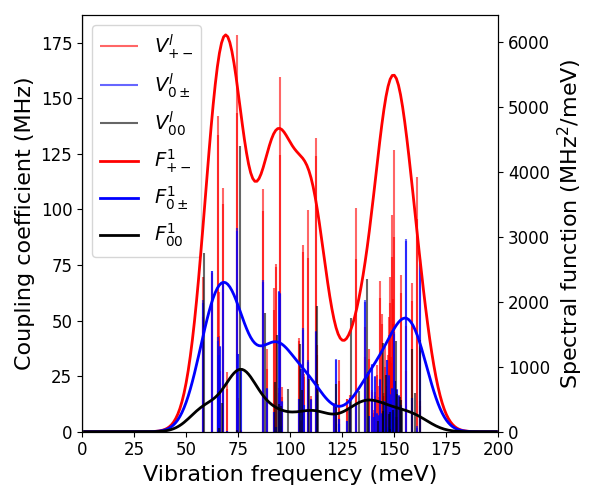
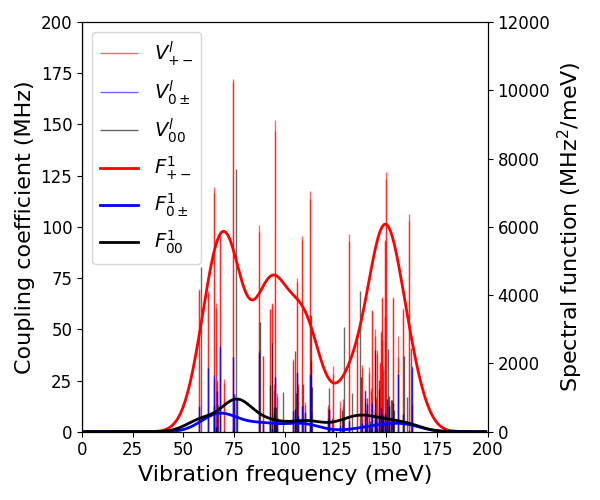
Remade plots and T1 calculation

diff --git a/src/beyblade/plotter.py b/src/beyblade/plotter.py
@@ -52,9 +52,9 @@ class ZFSPlotter:
                 Path("figures").mkdir(exist_ok=True)
                 fig.savefig(f"figures/{out_file}")
                 print(f"Saved figure in figures/{out_file}")
-                if data.get("second_order"):
-                    fig_2d.savefig(f"figures/{out_file.replace('.png', '_heatmap.png')}")
-                    print(f"Saved heatmap in figures/{out_file.replace('.png', '_heatmap.png')}")
+                # if data.get("second_order"):
+                #     fig_2d.savefig(f"figures/{out_file.replace('.png', '_heatmap.png')}")
+                #     print(f"Saved heatmap in figures/{out_file.replace('.png', '_heatmap.png')}")
 
     def _process_1d_plots(self, zfs_data, args):
         fig, ax = plt.subplots(figsize=(6, 5))
@@ -134,8 +134,8 @@ class ZFSPlotter:
             ax.set_ylabel("Phonon IPR")
         else:
             ax.set_ylabel("Coupling coefficient (MHz)")
-            #ax2.yaxis.set_major_locator(ticker.MultipleLocator(50))
-            ax.set_ylim(0)
+            ax.yaxis.set_major_locator(ticker.MultipleLocator(25))
+            ax.set_ylim(0, 125)
 
         if args.bar:
             ax.set_xlabel("Mode index")
@@ -145,9 +145,9 @@ class ZFSPlotter:
             ax.set_xlim(0, 200)
             ax.set_xlabel("Vibration frequency (meV)")
             ax2.set_ylabel(r"Spectral function (MHz$^2$/meV)")
-            #ax2.yaxis.set_major_locator(ticker.MultipleLocator(2000))
-            ax2.set_ylim(0)
-            legend_pos = "upper left"
+            ax2.yaxis.set_major_locator(ticker.MultipleLocator(500))
+            ax2.set_ylim(0, 3000)
+            legend_pos = "upper right"
 
         plt.axvline(x=data["zfs"]/CONSTANTS["meV2J"], color="gray", linewidth=1)
         lines1, labels1 = ax.get_legend_handles_labels()

diff --git a/scripts/plot_t1.py b/scripts/plot_t1.py
@@ -14,7 +14,14 @@ plt.rcParams.update({
 file_path = sys.argv[1:]
 show_plot = False
 
-initial_population = np.array([0.0, 1.0, 0.0])
+ms_states = {
+    "ms_1": [1.0, 0.0, 0.0],
+    "ms_0": [0.0, 1.0, 0.0],
+    "ms_-1": [0.0, 0.0, 1.0]
+    }
+
+init_state = "ms_-1"
+
 plt.figure(figsize=(10, 6))
 
 if file_path[0] == "--plot":
@@ -24,7 +31,7 @@ if file_path[0] == "--plot":
 for file in file_path:
 
   print("processing file: ", file)
-  simulator = RelaxationDynamics(init_state=initial_population, rates_data=file)
+  simulator = RelaxationDynamics(init_state=ms_states[init_state], rates_data=file)
   T1_times = simulator.compute_T1_range()
   T1_room_temp = simulator.get_T1_fit(T=300)
   T1_low_temp = simulator.get_T1_fit(T=1e-3)
@@ -45,6 +52,6 @@ plt.tight_layout()
 if show_plot:
   plt.show()
 else:
-  save_name = f"figures/{simulator.defect}_T1_time"
+  save_name = f"figures/{simulator.defect}_T1_time_{init_state}"
   print("Saving figure in: ", save_name+".png")
   plt.savefig(save_name)

diff --git a/src/beyblade/zfs_manager.py b/src/beyblade/zfs_manager.py
@@ -426,7 +426,7 @@ class ZFSManager:
                 raise NotImplementedError(f"Defect {self.defect} not implemented")
             
             if sym == "A1":
-                V_0_0[i] = np.abs(dD_dq[2,2]) / 6
+                V_0_0[i] = np.abs(dD_dq[2,2]) / 2
             elif sym == sym_y:
                 V_p_m[i] = np.abs(np.mean([dD_dq[0,1], dD_dq[1,0]]))
                 V_0_pm[i] = np.abs(np.mean( [dD_dq[1,2], dD_dq[2,1]] )) / np.sqrt(2)
@@ -551,7 +551,6 @@ class ZFSManager:
                 V_p_m_2nd[i, j] = 0.5 * np.abs(np.mean( [d2D_dqidqj[1,0], d2D_dqidqj[0,1]] ))
                 
             if len(self.treated_modes) < n_modes:
-                print("HEJ")
                 if i+1 < n_modes and i == j:
                     freq_i = phonon_energies[i]
                     freq_in = phonon_energies[i+1]
